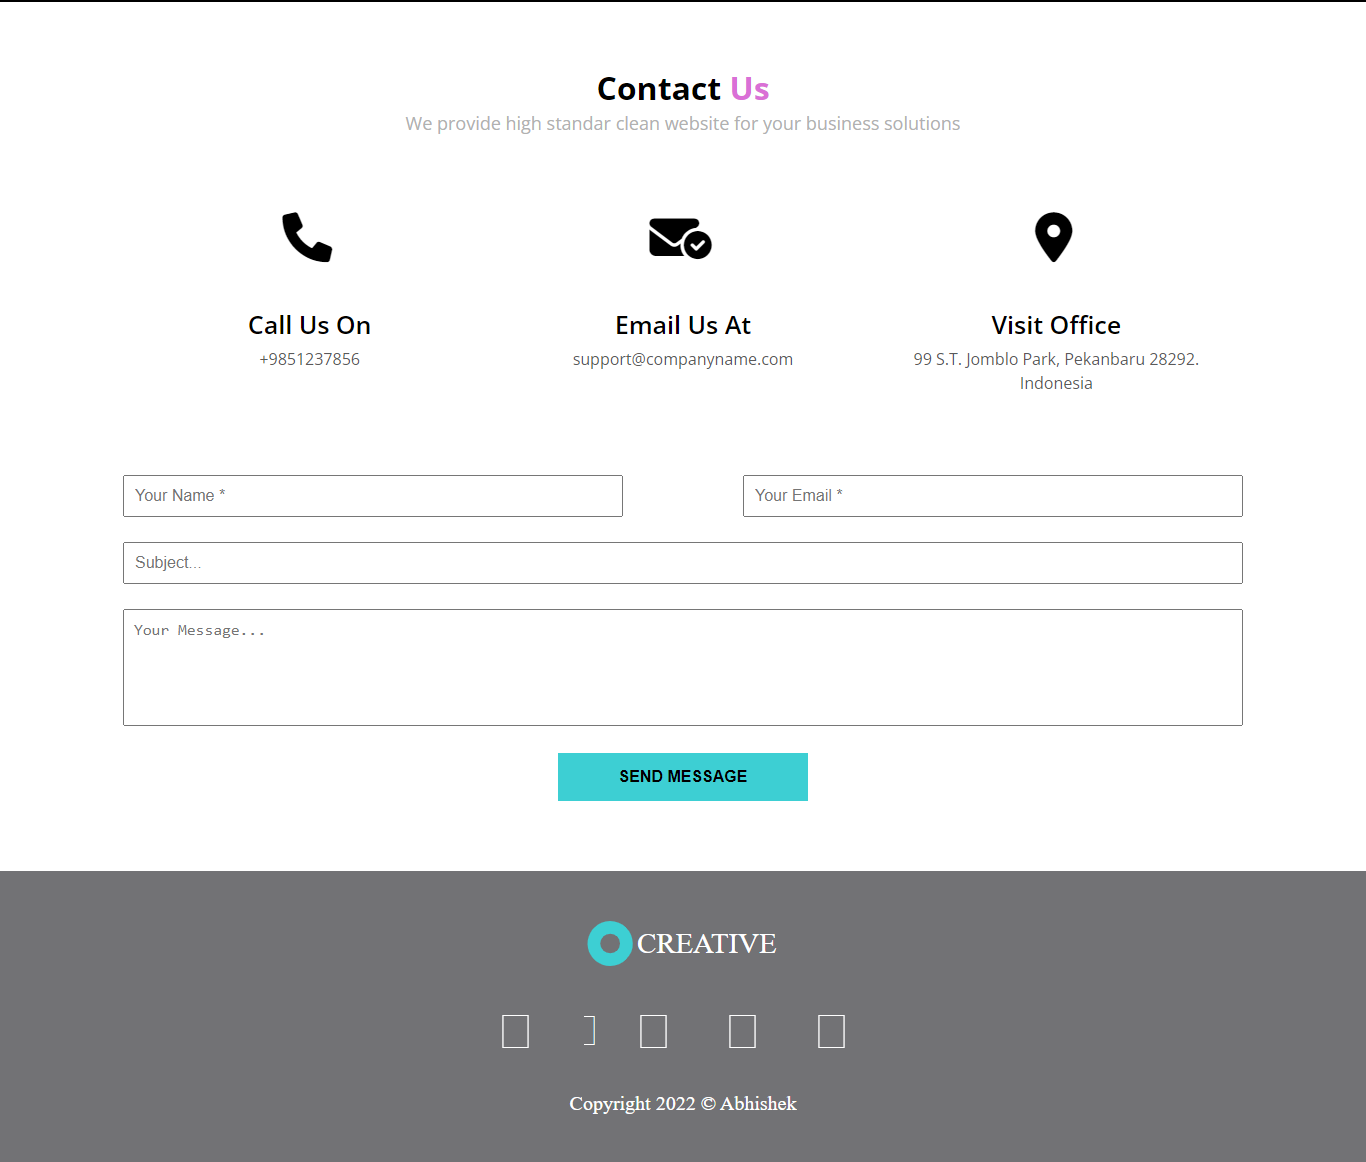
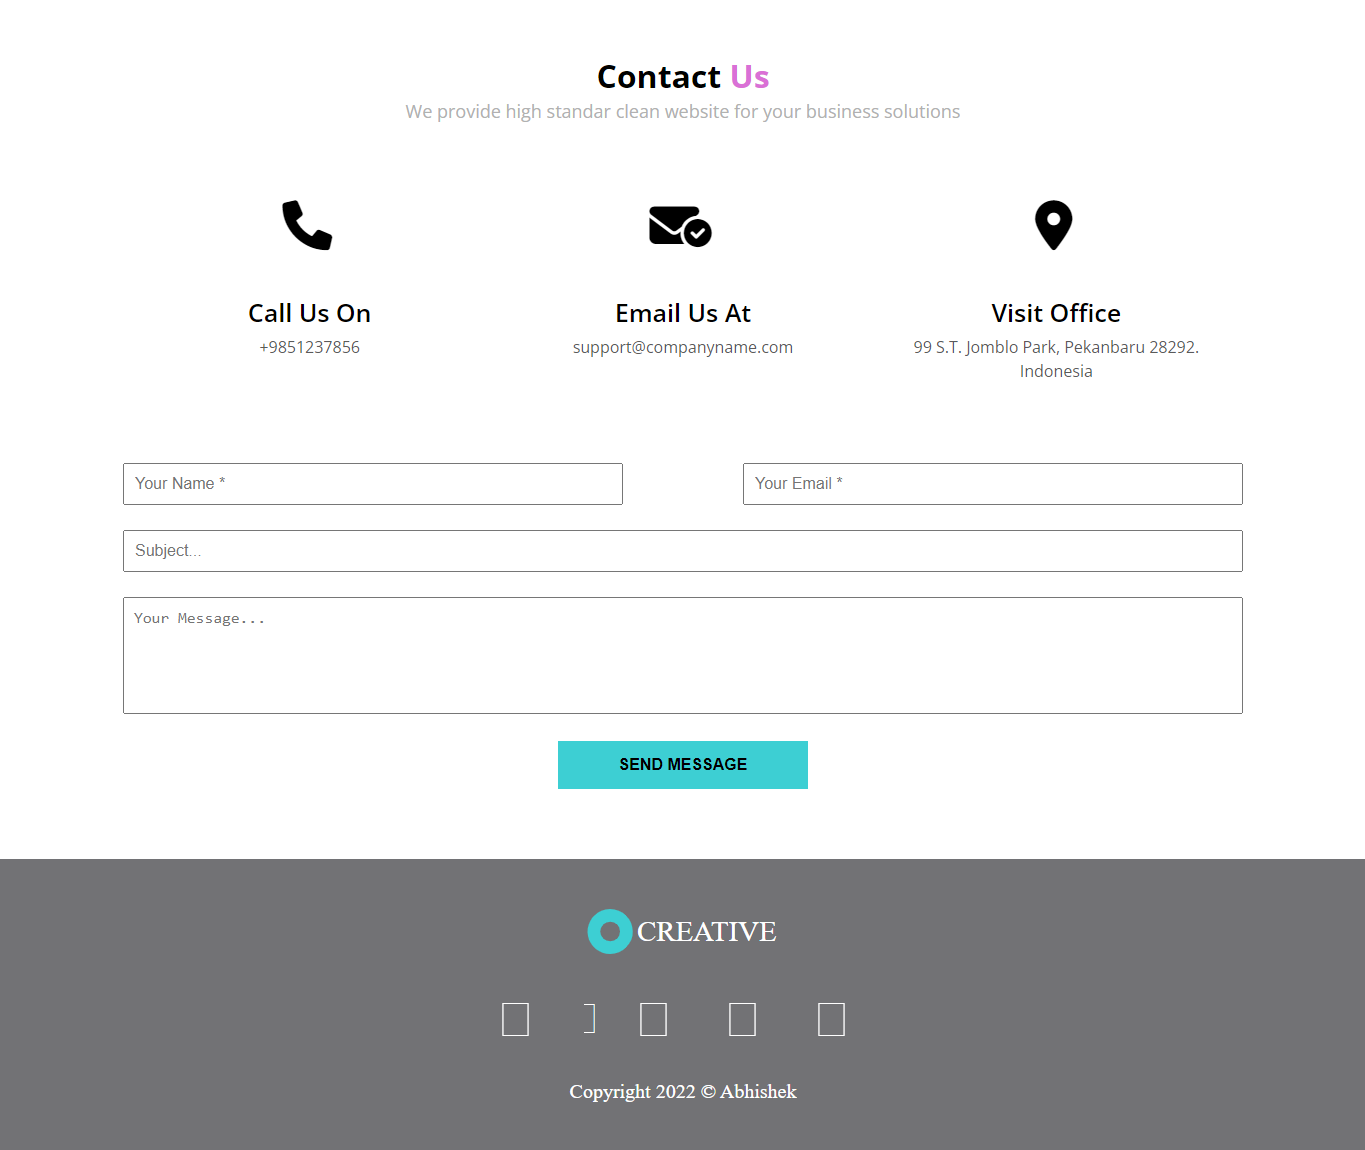
Flexbox-Portfolio Website Home Page

diff --git a/Flexbox_Class_Work_Portfolio/index.html b/Flexbox_Class_Work_Portfolio/index.html
@@ -258,6 +258,24 @@
       </div>
     </section>
   </main>
+
+  <footer id="footer">
+    <div class="container flex footer-flex">
+      <div class="logo2">
+        <img src="/Flexbox_Class_Work_Portfolio/Images/logo-2.svg" alt="">
+      </div>
+      <div class="icon">
+        <img src="../Flexbox_Class_Work_Portfolio/Images/map.svg" alt="">
+        <img src="../Flexbox_Class_Work_Portfolio/Images/phone-2.svg" alt="" class="svg">
+        <img src="../Flexbox_Class_Work_Portfolio/Images/map.svg" alt="" class="svg">
+        <img src="../Flexbox_Class_Work_Portfolio/Images/map.svg" alt="" class="svg">
+        <img src="../Flexbox_Class_Work_Portfolio/Images/map.svg" alt="" class="svg">
+      </div>
+      <div class="copy">
+        Copyright 2022 &copy; Abhishek
+      </div>
+    </div>
+  </footer>
 </body>
 
 </html>

diff --git a/Flexbox_Class_Work_Portfolio/style.css b/Flexbox_Class_Work_Portfolio/style.css
@@ -478,3 +478,21 @@ i{
   text-transform: uppercase;
   cursor: pointer;
 }
+
+/* ###################### footer ###################### */
+#footer{
+  background-color: #727275;
+  padding: 50px 0;
+}
+.footer-flex{
+  flex-direction: column;
+  align-items: center;
+  row-gap: 20px;
+}
+.footer-flex .icon .svg{
+  margin-left: 25px;
+}
+.footer-flex .copy{
+  font-size: 20px;
+  color: white;
+}
